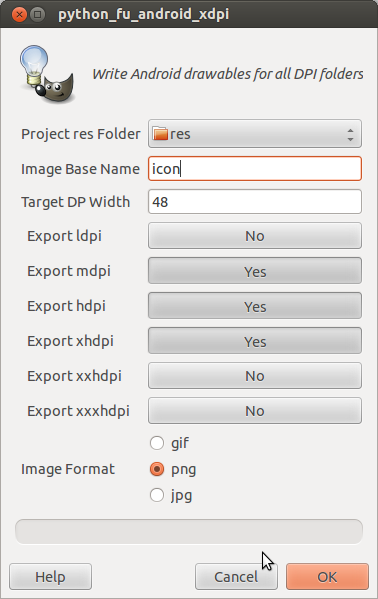
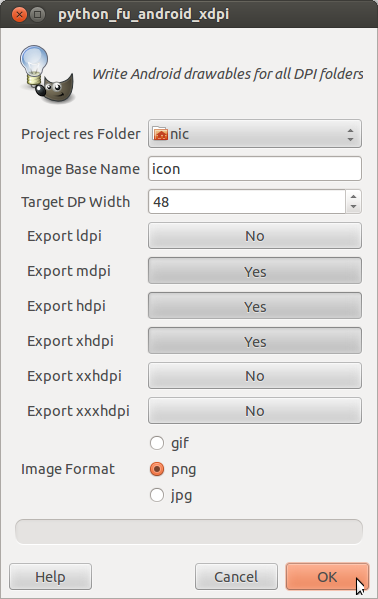
Use spinner for image width selection

diff --git a/gimpfu_android_xdpi.py b/gimpfu_android_xdpi.py
@@ -103,7 +103,7 @@ gimpfu.register("python_fu_android_xdpi",
                 "*", [
                     (gimpfu.PF_DIRNAME, "res-folder",     "Project res Folder", DEFAULT_OUTPUT_DIR), #os.getcwd()),
                     (gimpfu.PF_STRING, "image-basename", "Image Base Name", 'icon'),
-                    (gimpfu.PF_INT, "target-width", "Target DP Width", 48),
+                    (gimpfu.PF_SPINNER, "target-width", "Target DP Width", 48, (1, 8000, 2)),
                     (gimpfu.PF_BOOL, "x_ldpi",    "  Export ldpi",   False),
                     (gimpfu.PF_BOOL, "x_mdpi",    "  Export mdpi",   True),
                     (gimpfu.PF_BOOL, "x_hdpi",    "  Export hdpi",   True),
